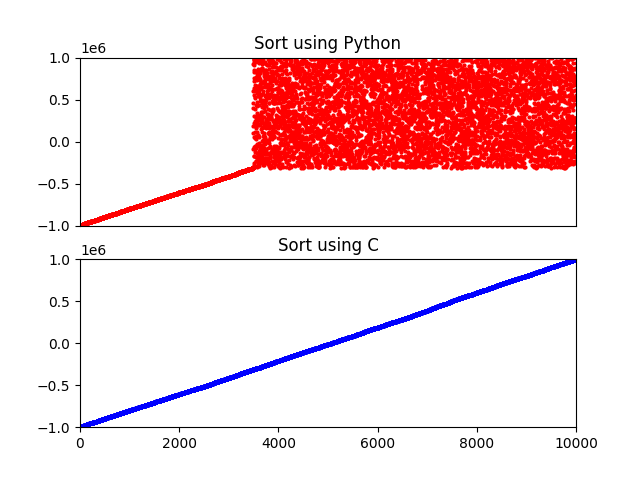
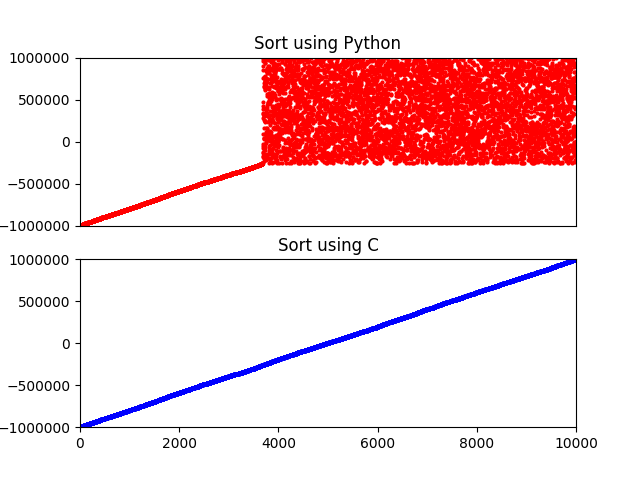
UPDATE: label style

diff --git a/lab5/lab5_2021/package/plot.py b/lab5/lab5_2021/package/plot.py
@@ -47,12 +47,12 @@ fig, ax = plt.subplots(nrows=2)
 ax[0].set_title("Sort using Python")
 # Hide the X axis since it is overlapping with the graph below
 ax[0].get_xaxis().set_visible(False)
-ax[0].ticklabel_format(useOffset=False)
+ax[0].ticklabel_format(useOffset=False, style='plain')
 ln_python, = ax[0].plot(x, lst4python[0], "ro", markersize=2)
 
 # C
 ax[1].set_title("Sort using C")
-ax[1].ticklabel_format(useOffset=False)
+ax[1].ticklabel_format(useOffset=False, style='plain')
 ln_C, = ax[1].plot(x, lst4C[0], "bo", markersize=2)
 
 
